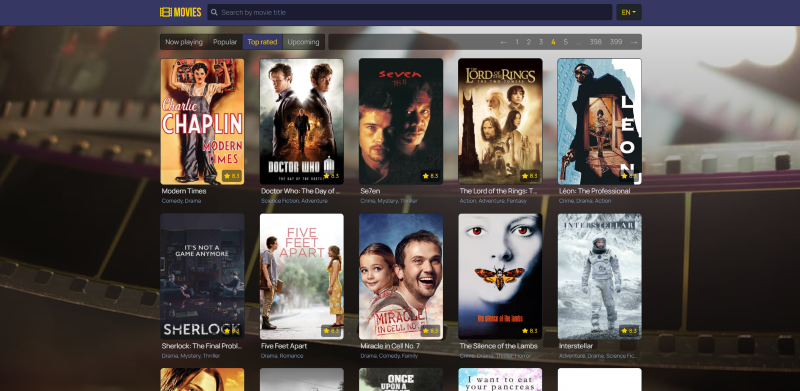
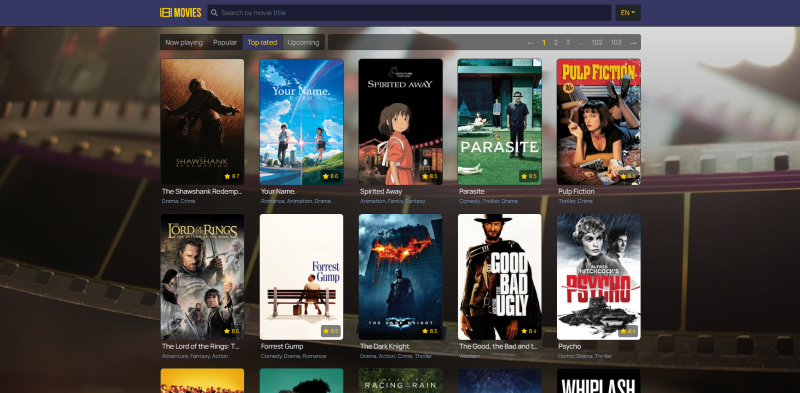
Update README "features" description and screens

diff --git a/README.md b/README.md
@@ -24,18 +24,21 @@ Live demo is available at [nk11dev-movies.herokuapp.com](https://nk11dev-movies.
 - 🍦 SASS, Bootstrap 4 + Fontawesome 5
 
 ## Description
-Application based on custom webpack boilerplate with the latest dependency versions. Application uses real data API provided by The Movie Database (TMDb). This app shows data for Russian region, but you can specify the region you need. 
+Application based on custom webpack boilerplate with the latest dependency versions an uses real data API provided by The Movie Database (TMDb).
 
 *Notation: if you want to clone this app and use it by yourself, you should register account at TMDb and use your own API key.* 
 
 ### Features: 
 ##### 🎥 watch movies lists, filtered by categories: "Now playing", "Popular", "Top rated" and "Upcoming". Pagination is supported.
+*Example: "Top rated"m page 1 list for russian region*:
 <img src="src/assets/img/screens/screen_1.png">
 
-##### 🎥 search movies by title:
+##### 🎥 search movies by title
+*Example: Found 60 movies by search query"Terminator":*
 <img src="src/assets/img/screens/screen_2.png">
 
-##### 🎥 watch movie details:
+##### 🎥 watch movie details
+*Example: Movie details for "The Usual Suspects" (1995):*
 - original title, genres, production countries, release date, duration
 - creators: director, writing, director of photography, original music composer, actors
 - movie rating based on TMDb users votes
@@ -46,16 +49,20 @@ Application based on custom webpack boilerplate with the latest dependency versi
 <img src="src/assets/img/screens/screen_3.png">
 
 ##### 🎥 watch image gallery:
+*Example: Image gallary for "Kill Bill: Vol. 1" (2003):*
 <img src="src/assets/img/screens/screen_4.png">
 
 ##### 🎥 watch recommendations - list of similar movies:
+*Example: Recommendation for "Kung Fu Panda" (2008):*
 <img src="src/assets/img/screens/screen_5.png">
     
 ##### 🎥 switch localizations:
 
 EN (English) and RU (Russian) languages are available. 
 With locale changing also changes movie displayed data (in relation with selected language): title, tagline, description, poster, videos.
+*Example: English localization for "Avengers: Endgame" (2019):*
 <img src="src/assets/img/screens/screen_6.png">
+*Example: Russian localization for "Avengers: Endgame" (2019):*
 <img src="src/assets/img/screens/screen_7.png">
 
 ## NPM scripts
